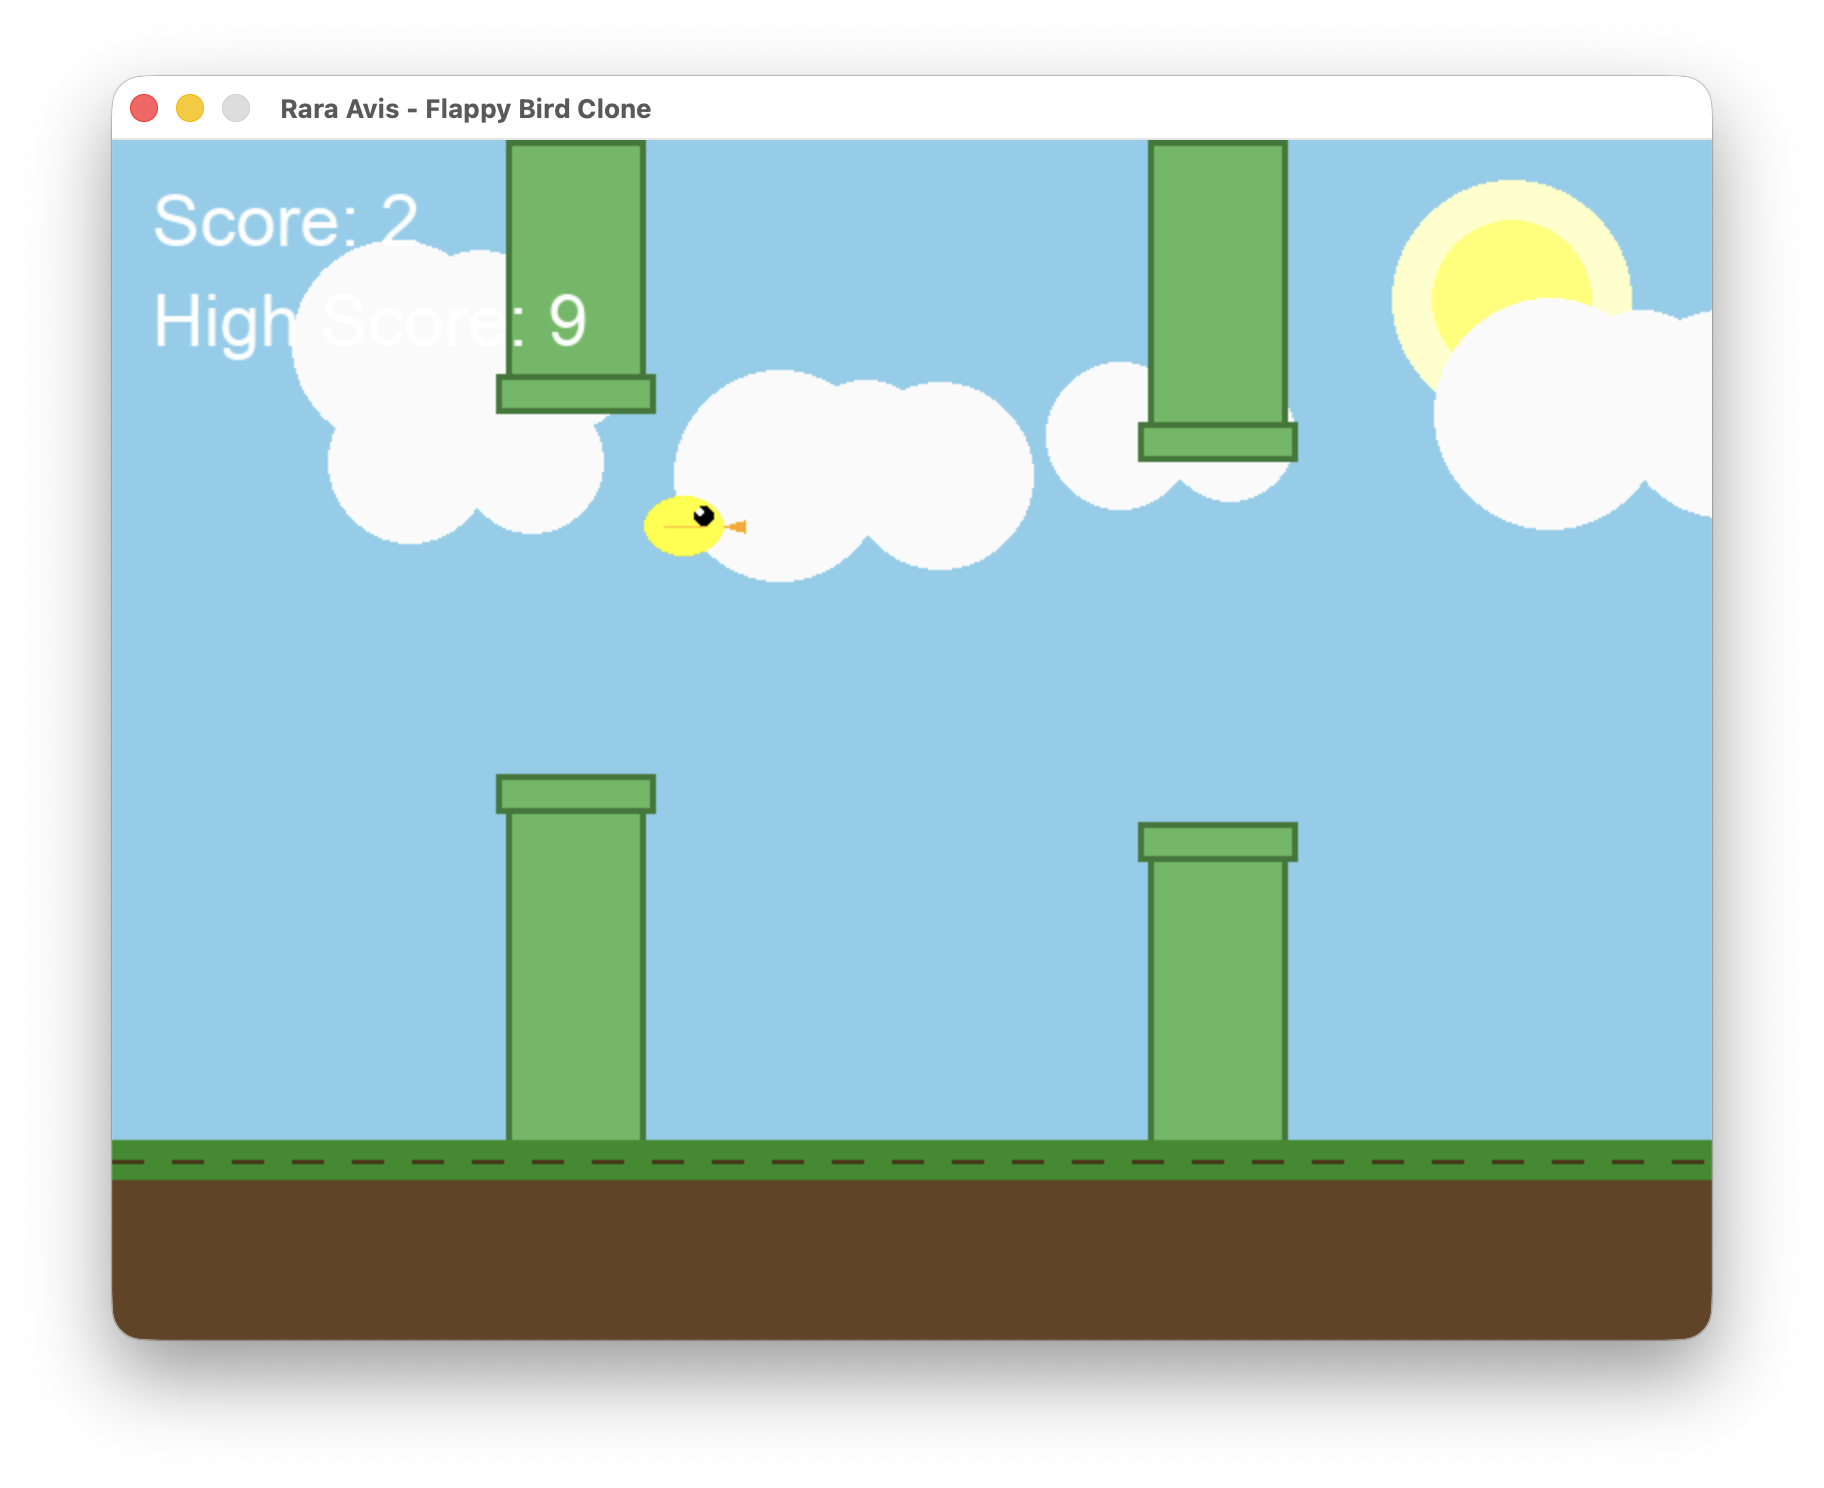
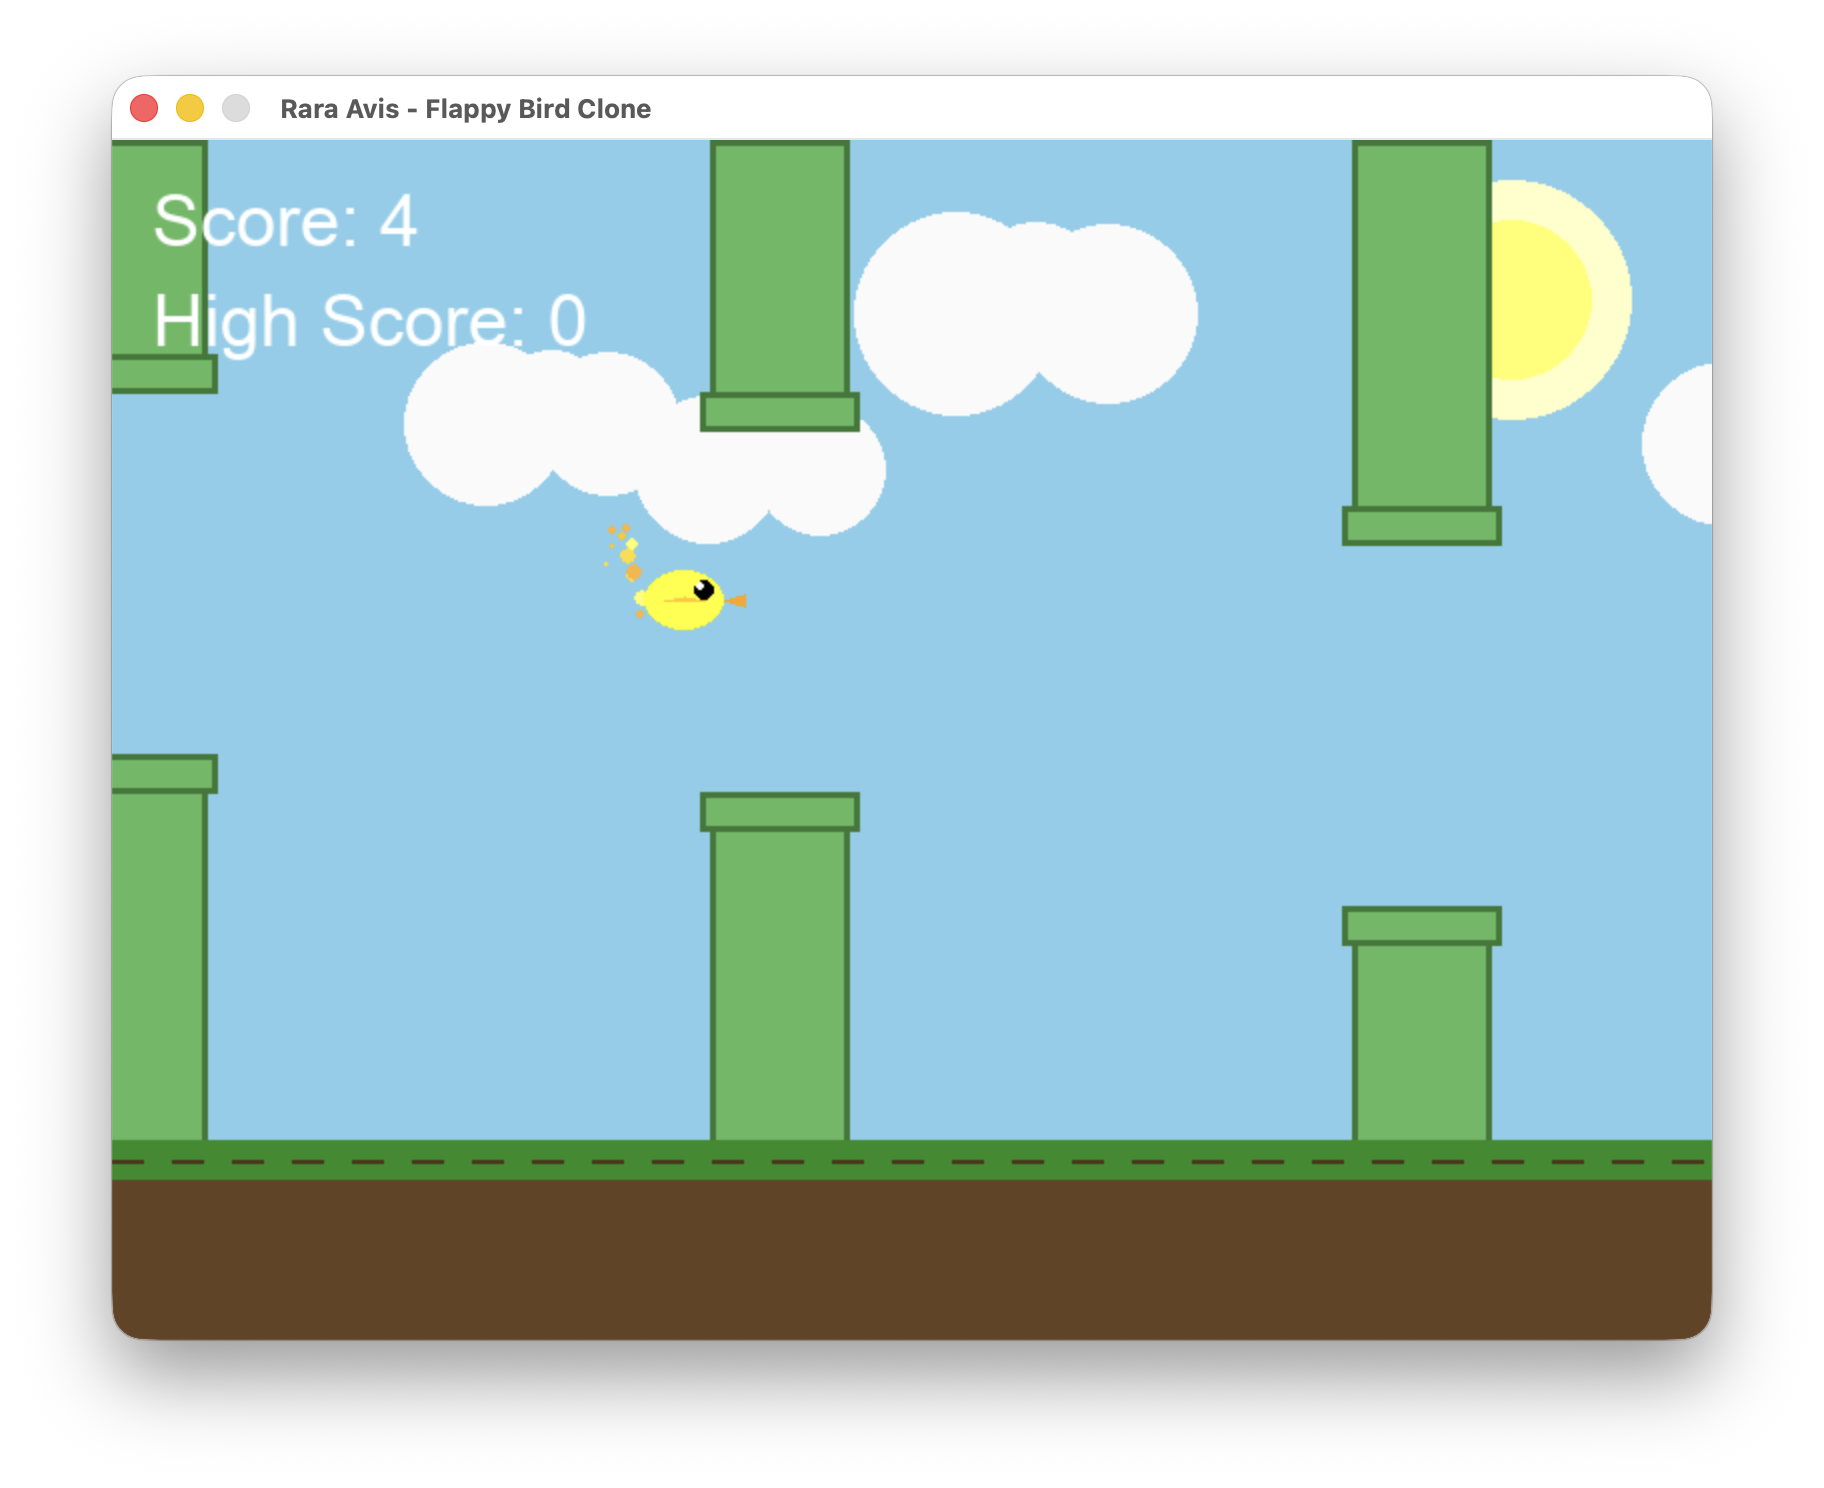
Added particle

diff --git a/rara-avis.py b/rara-avis.py
@@ -160,6 +160,35 @@ class Button:
             return self.rect.collidepoint(pos)
         return False
 
+class Particle:
+    def __init__(self, x, y):
+        self.x = x
+        self.y = y
+        self.vx = random.uniform(-1, -0.5)
+        self.vy = random.uniform(-1, 1)
+        self.lifetime = random.randint(20, 40)
+        self.size = random.randint(3, 6)
+        self.color = random.choice([
+            (255, 255, 100),  # Light yellow
+            (255, 220, 50),   # Golden
+            (255, 200, 0),    # Yellow
+            (255, 180, 50),   # Orange-yellow
+        ])
+
+    def update(self):
+        self.x += self.vx
+        self.y += self.vy
+        self.lifetime -= 1
+        self.size = max(1, self.size - 0.1)
+
+    def draw(self):
+        if self.lifetime > 0:
+            alpha = int(255 * (self.lifetime / 40))
+            pygame.draw.circle(screen, self.color, (int(self.x), int(self.y)), int(self.size))
+
+    def is_alive(self):
+        return self.lifetime > 0
+
 class Cloud:
     def __init__(self):
         self.x = WIDTH + random.randint(0, 300)
@@ -232,6 +261,7 @@ def draw_start_screen():
     instructions = [
         "Press SPACE or CLICK to flap",
         "Avoid pipes and don't hit the ground",
+        "Press P to pause",
         "Press SPACE or ENTER to start"
     ]
 
@@ -248,17 +278,30 @@ def draw_start_screen():
         (WIDTH//2 + 40, HEIGHT//3 + 18)
     ])
 
+def draw_paused():
+    overlay = pygame.Surface((WIDTH, HEIGHT), pygame.SRCALPHA)
+    overlay.fill((0, 0, 0, 128))
+    screen.blit(overlay, (0, 0))
+
+    paused_text = font_large.render("PAUSED", True, TEXT_COLOR)
+    screen.blit(paused_text, (WIDTH//2 - paused_text.get_width()//2, HEIGHT//2 - 50))
+
+    resume_text = font_small.render("Press P to resume", True, TEXT_COLOR)
+    screen.blit(resume_text, (WIDTH//2 - resume_text.get_width()//2, HEIGHT//2 + 20))
+
 def main():
     global clouds
 
     clock = pygame.time.Clock()
     bird = Bird()
     pipes = []
+    particles = []
     score = 0
     high_score = 0
     last_pipe = pygame.time.get_ticks()
-    game_state = "start"  # start, playing, game_over
+    game_state = "start"  # start, playing, paused, game_over
     clouds = [Cloud() for _ in range(5)]
+    paused = False
 
     # Create buttons
     restart_button = Button(WIDTH//2 - 100, HEIGHT//2 + 100, 200, 50, "RESTART")
@@ -283,8 +326,17 @@ def main():
                 if event.type == pygame.KEYDOWN:
                     if event.key == pygame.K_SPACE:
                         bird.flap()
+                    if event.key == pygame.K_p:
+                        paused = True
+                        game_state = "paused"
                 if event.type == pygame.MOUSEBUTTONDOWN:
                     bird.flap()
+
+            elif game_state == "paused":
+                if event.type == pygame.KEYDOWN:
+                    if event.key == pygame.K_p:
+                        paused = False
+                        game_state = "playing"
 
             elif game_state == "game_over":
                 restart_button.check_hover(mouse_pos)
@@ -295,6 +347,7 @@ def main():
                     # Reset game
                     bird = Bird()
                     pipes = []
+                    particles = []
                     score = 0
                     last_pipe = current_time
                     game_state = "playing"
@@ -302,6 +355,16 @@ def main():
         # Update game objects
         if game_state == "playing":
             bird.update()
+
+            # Spawn particles behind the bird
+            if random.random() < 0.5:  # 50% chance each frame
+                particles.append(Particle(bird.x, bird.y + BIRD_HEIGHT // 2))
+
+            # Update particles
+            for particle in particles[:]:
+                particle.update()
+                if not particle.is_alive():
+                    particles.remove(particle)
 
             # Generate new pipes
             if current_time - last_pipe > PIPE_FREQUENCY:
@@ -338,6 +401,10 @@ def main():
         # Drawing
         draw_background()
 
+        # Draw particles (behind bird)
+        for particle in particles:
+            particle.draw()
+
         # Draw pipes
         for pipe in pipes:
             pipe.draw()
@@ -349,12 +416,14 @@ def main():
         bird.draw()
 
         # Draw score
-        if game_state == "playing" or game_state == "game_over":
+        if game_state == "playing" or game_state == "game_over" or game_state == "paused":
             draw_score(score, high_score)
 
         # Draw screens
         if game_state == "start":
             draw_start_screen()
+        elif game_state == "paused":
+            draw_paused()
         elif game_state == "game_over":
             draw_game_over(score, high_score, restart_button)
 

diff --git a/readme.md b/readme.md
@@ -75,19 +75,19 @@ brew install python@3.13
 ### Setup
 
 ```bash
-cd ~/tmp/flappybird
+git clone https://github.com/LuisPalacios/rara-avis
+cd rara-avis
 /opt/homebrew/bin/python3.13 -m venv .venv
 source .venv/bin/activate
-python -m pip install -U pip
 python -m pip install -U pygame
 ```
 
 ### Run
 
 ```bash
-cd ~/tmp/flappybird
+cd rara-avis
 source .venv/bin/activate
-python flappybird.py
+python rara-avis.py
 ```
 
 Game control:
@@ -95,6 +95,7 @@ Game control:
 | Action | Input |
 | ------ | ----- |
 | Flap / Start | `SPACE` or `Mouse Click` |
+| Pause | `P` |
 
 ## License
 
